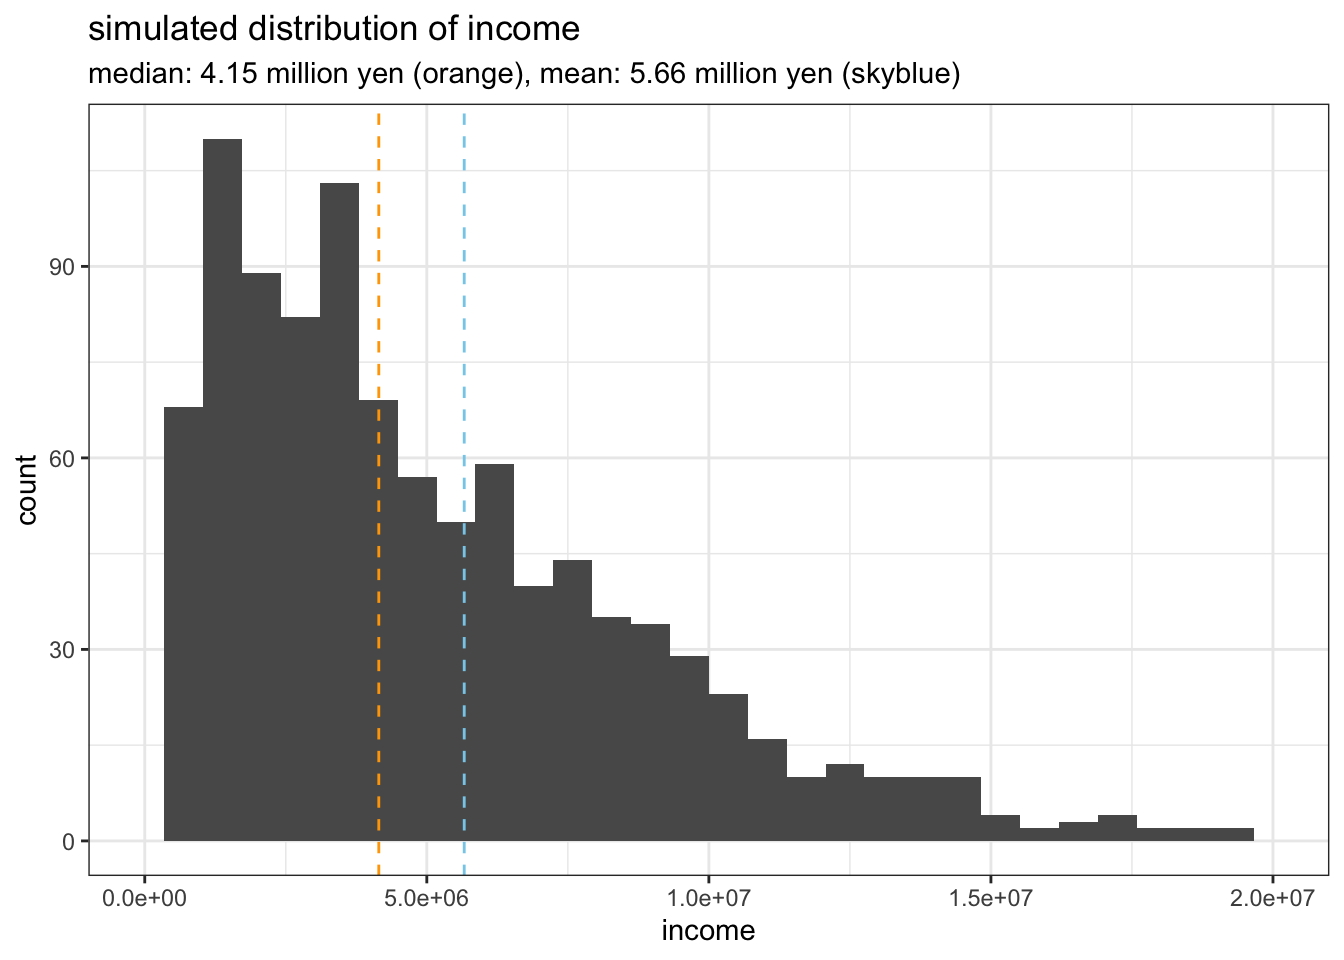
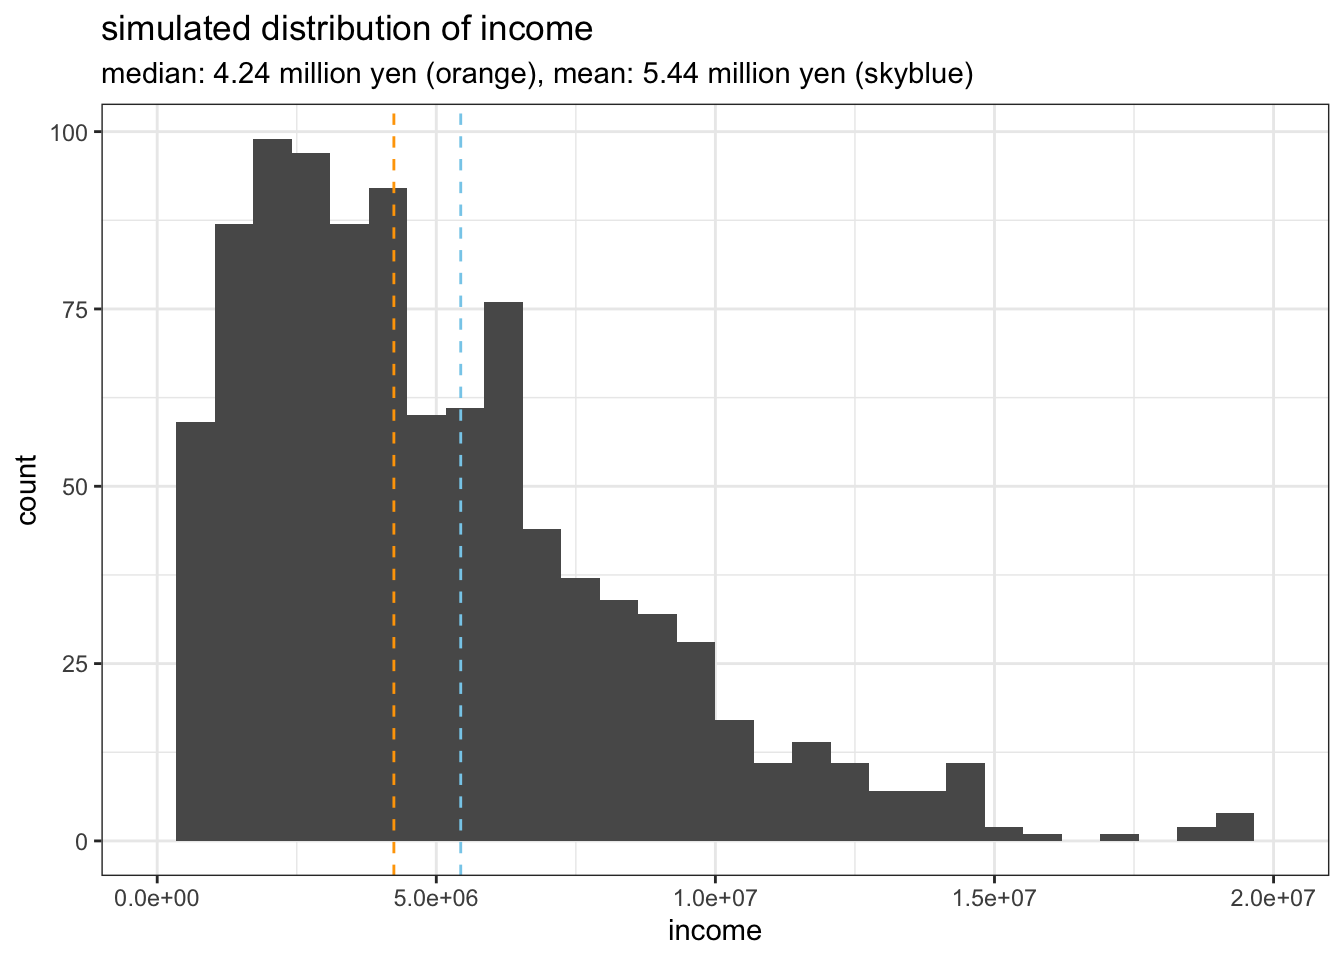
テキストの修正

diff --git a/docs/post/2022-08-07-generateincomedata/index.html b/docs/post/2022-08-07-generateincomedata/index.html
@@ -230,6 +230,11 @@ source: <a href="https://www.e-stat.go.jp/dbview?sid=0003442017">e-stat</a></p>
 <li>incomeは交絡: incomeが少ないほどx and yが発生しやすい (i.e., confounding bias away from the null)</li>
 <li>引数: n_sample=人数、risk_ratio=曝露によるリスク比</li>
 </ul>
+</div>
+<div id="関数" class="section level1">
+<h1>関数</h1>
+<div id="関数の作成" class="section level2">
+<h2>関数の作成</h2>
 <pre class="r"><code>pacman::p_load(tidyverse)
 # incomeデータを国民生活基礎調査に基づいて作成
 MakeIncomeData &lt;- function(){
@@ -251,7 +256,7 @@ MakeIncomeData &lt;- function(){
 # incomeが少ないほどx and yが発生しやすい-&gt; confounding bias away from the null
 # 引数: n_sample=人数、risk_ratio=曝露によるリスク比
 MakeData &lt;- function(n_sample=1000, risk_ratio=1.5){
-  set.seed(1)
+  set.seed(1234)
   # income data &amp; income_threshold
   income_cat &lt;- MakeIncomeData()
   income_threshold &lt;- c(0, 0.012, 0.064, 0.127, 0.19, 0.259, 0.326, 0.397, 0.454, 
@@ -308,16 +313,19 @@ MakeData &lt;- function(n_sample=1000, risk_ratio=1.5){
   
   return(df)
 }</code></pre>
+</div>
+<div id="関数の確認" class="section level2">
+<h2>関数の確認</h2>
 <p>使い方はこんな感じ</p>
 <pre class="r"><code>df &lt;- MakeData(n_sample = 1000, risk_ratio = 2.0)
 head(df)</code></pre>
-<pre><code>##   ID sex     income income_cat x y
-## 1  1   0  4935901.6       &lt;700 0 0
-## 2  2   0  6483597.6       &lt;700 0 0
-## 3  3   1  3433457.3       &lt;400 0 0
-## 4  4   1 13313145.5       ≥700 0 0
-## 5  5   0  1095968.7       &lt;250 1 1
-## 6  6   1   541147.1       &lt;250 1 0</code></pre>
+<pre><code>##   ID sex  income income_cat x y
+## 1  1   0 9057019       ≥700 1 0
+## 2  2   1 4096104       &lt;700 0 0
+## 3  3   1 1309235       &lt;250 0 0
+## 4  4   1 3299529       &lt;400 0 0
+## 5  5   1 7530942       ≥700 0 0
+## 6  6   1 3349626       &lt;400 0 1</code></pre>
 <p>所得の分布はこの通り。200-300万円程度でピークが来ていて、右に長い裾を引くという日本世帯収入の特徴をつかめていると思います。</p>
 <pre class="r"><code>mean_income &lt;- mean(df$income)
 median_income &lt;- median(df$income)
@@ -341,8 +349,86 @@ ggplot(data = df, aes(x = income)) +
 <p class="caption">所得の分布状況 (令和元年度国民生活基礎調査)</p>
 </div>
 <p>国民生活基礎調査をもとにデータをシミュレーションしているから当然なんだけど、いいデモデータになるでしょ？</p>
+<p>一応、xとyとの関連も確認。
+単純にxとyをlog-binomialで回帰分析したモデルと、収入を4カテゴリ (250万円未満 / 250-400万円 / 400-700万円 / 700万円以上) に分けて調整したモデルの2つを実行します。</p>
+<pre class="r"><code>crude &lt;- glm(y ~ x, data = df, family = binomial(link = &quot;log&quot;))
+
+summary(crude)</code></pre>
+<pre><code>## 
+## Call:
+## glm(formula = y ~ x, family = binomial(link = &quot;log&quot;), data = df)
+## 
+## Deviance Residuals: 
+##     Min       1Q   Median       3Q      Max  
+## -1.0579  -0.6398  -0.6398  -0.6398   1.8368  
+## 
+## Coefficients:
+##             Estimate Std. Error z value Pr(&gt;|z|)    
+## (Intercept) -1.68688    0.07274  -23.19  &lt; 2e-16 ***
+## x            0.83958    0.11501    7.30 2.88e-13 ***
+## ---
+## Signif. codes:  0 &#39;***&#39; 0.001 &#39;**&#39; 0.01 &#39;*&#39; 0.05 &#39;.&#39; 0.1 &#39; &#39; 1
+## 
+## (Dispersion parameter for binomial family taken to be 1)
+## 
+##     Null deviance: 1068.8  on 999  degrees of freedom
+## Residual deviance: 1026.6  on 998  degrees of freedom
+## AIC: 1030.6
+## 
+## Number of Fisher Scoring iterations: 6</code></pre>
+<pre class="r"><code>exp(coef(crude)) # risk ratio</code></pre>
+<pre><code>## (Intercept)           x 
+##   0.1850962   2.3153989</code></pre>
+<pre class="r"><code>adjusted &lt;- glm(y ~ x + income_cat, data = df, family = binomial(link = &quot;log&quot;))
+
+summary(adjusted)</code></pre>
+<pre><code>## 
+## Call:
+## glm(formula = y ~ x + income_cat, family = binomial(link = &quot;log&quot;), 
+##     data = df)
+## 
+## Deviance Residuals: 
+##     Min       1Q   Median       3Q      Max  
+## -1.2228  -0.7399  -0.6391  -0.5278   2.0200  
+## 
+## Coefficients:
+##                Estimate Std. Error z value Pr(&gt;|z|)    
+## (Intercept)     -1.4293     0.1049 -13.628  &lt; 2e-16 ***
+## x                0.7879     0.1149   6.856 7.08e-12 ***
+## income_cat&lt;400  -0.2383     0.1557  -1.531   0.1259    
+## income_cat&lt;700  -0.2596     0.1400  -1.855   0.0636 .  
+## income_cat≥700  -0.6109     0.1755  -3.481   0.0005 ***
+## ---
+## Signif. codes:  0 &#39;***&#39; 0.001 &#39;**&#39; 0.01 &#39;*&#39; 0.05 &#39;.&#39; 0.1 &#39; &#39; 1
+## 
+## (Dispersion parameter for binomial family taken to be 1)
+## 
+##     Null deviance: 1068.8  on 999  degrees of freedom
+## Residual deviance: 1012.8  on 995  degrees of freedom
+## AIC: 1022.8
+## 
+## Number of Fisher Scoring iterations: 6</code></pre>
+<pre class="r"><code>exp(coef(adjusted)) # risk ratio</code></pre>
+<pre><code>##    (Intercept)              x income_cat&lt;400 income_cat&lt;700 income_cat≥700 
+##      0.2394715      2.1987082      0.7879789      0.7713427      0.5428814</code></pre>
+<pre class="r"><code>exp(confint(adjusted)) # 95%CI</code></pre>
+<pre><code>##                    2.5 %    97.5 %
+## (Intercept)    0.1934482 0.2914440
+## x              1.7452555 2.7416437
+## income_cat&lt;400 0.5720032 1.0622755
+## income_cat&lt;700 0.5838765 1.0102595
+## income_cat≥700 0.3800548 0.7554868</code></pre>
+<p>risk ratioは2.0で設定したところ、データではRR=2.20 になっていました。
+おそらく想定した通りにちゃんと動いているでしょう。</p>
+<p>また、交絡に関して確認すると、
+crudeだと RR=2.32 で、収入を調整したadjustedだと RR=2.20 となっていました。
+したがって、収入がbias away from the nullになっていることも確認できました。</p>
 <p><br></p>
-<p>実際に動かすときは、この関数を.Rで作成し、解析コードの.R/.Rmdから読み出すといいでしょう。</p>
+</div>
+</div>
+<div id="実際に使う場合のtips" class="section level1">
+<h1>実際に使う場合のtips</h1>
+<p>実際にこの関数を動かすときは、関数を.Rで作成して保存し、解析コードの.R/.Rmdから読み出すといいでしょう。</p>
 <p>例として、以下のディレクトリ構造でコードを書いていたとします。</p>
 <p>index.Rmd (← 今書いてるドキュメント) <br>
 └ index_files/makedata.R <br></p>

diff --git a/content/post/2022-08-07-generateincomedata/index.html b/content/post/2022-08-07-generateincomedata/index.html
@@ -28,6 +28,11 @@ source: <a href="https://www.e-stat.go.jp/dbview?sid=0003442017">e-stat</a></p>
 <li>incomeは交絡: incomeが少ないほどx and yが発生しやすい (i.e., confounding bias away from the null)</li>
 <li>引数: n_sample=人数、risk_ratio=曝露によるリスク比</li>
 </ul>
+</div>
+<div id="関数" class="section level1">
+<h1>関数</h1>
+<div id="関数の作成" class="section level2">
+<h2>関数の作成</h2>
 <pre class="r"><code>pacman::p_load(tidyverse)
 # incomeデータを国民生活基礎調査に基づいて作成
 MakeIncomeData &lt;- function(){
@@ -49,7 +54,7 @@ MakeIncomeData &lt;- function(){
 # incomeが少ないほどx and yが発生しやすい-&gt; confounding bias away from the null
 # 引数: n_sample=人数、risk_ratio=曝露によるリスク比
 MakeData &lt;- function(n_sample=1000, risk_ratio=1.5){
-  set.seed(1)
+  set.seed(1234)
   # income data &amp; income_threshold
   income_cat &lt;- MakeIncomeData()
   income_threshold &lt;- c(0, 0.012, 0.064, 0.127, 0.19, 0.259, 0.326, 0.397, 0.454, 
@@ -106,16 +111,19 @@ MakeData &lt;- function(n_sample=1000, risk_ratio=1.5){
   
   return(df)
 }</code></pre>
+</div>
+<div id="関数の確認" class="section level2">
+<h2>関数の確認</h2>
 <p>使い方はこんな感じ</p>
 <pre class="r"><code>df &lt;- MakeData(n_sample = 1000, risk_ratio = 2.0)
 head(df)</code></pre>
-<pre><code>##   ID sex     income income_cat x y
-## 1  1   0  4935901.6       &lt;700 0 0
-## 2  2   0  6483597.6       &lt;700 0 0
-## 3  3   1  3433457.3       &lt;400 0 0
-## 4  4   1 13313145.5       ≥700 0 0
-## 5  5   0  1095968.7       &lt;250 1 1
-## 6  6   1   541147.1       &lt;250 1 0</code></pre>
+<pre><code>##   ID sex  income income_cat x y
+## 1  1   0 9057019       ≥700 1 0
+## 2  2   1 4096104       &lt;700 0 0
+## 3  3   1 1309235       &lt;250 0 0
+## 4  4   1 3299529       &lt;400 0 0
+## 5  5   1 7530942       ≥700 0 0
+## 6  6   1 3349626       &lt;400 0 1</code></pre>
 <p>所得の分布はこの通り。200-300万円程度でピークが来ていて、右に長い裾を引くという日本世帯収入の特徴をつかめていると思います。</p>
 <pre class="r"><code>mean_income &lt;- mean(df$income)
 median_income &lt;- median(df$income)
@@ -139,8 +147,86 @@ ggplot(data = df, aes(x = income)) +
 <p class="caption">所得の分布状況 (令和元年度国民生活基礎調査)</p>
 </div>
 <p>国民生活基礎調査をもとにデータをシミュレーションしているから当然なんだけど、いいデモデータになるでしょ？</p>
+<p>一応、xとyとの関連も確認。
+単純にxとyをlog-binomialで回帰分析したモデルと、収入を4カテゴリ (250万円未満 / 250-400万円 / 400-700万円 / 700万円以上) に分けて調整したモデルの2つを実行します。</p>
+<pre class="r"><code>crude &lt;- glm(y ~ x, data = df, family = binomial(link = &quot;log&quot;))
+
+summary(crude)</code></pre>
+<pre><code>## 
+## Call:
+## glm(formula = y ~ x, family = binomial(link = &quot;log&quot;), data = df)
+## 
+## Deviance Residuals: 
+##     Min       1Q   Median       3Q      Max  
+## -1.0579  -0.6398  -0.6398  -0.6398   1.8368  
+## 
+## Coefficients:
+##             Estimate Std. Error z value Pr(&gt;|z|)    
+## (Intercept) -1.68688    0.07274  -23.19  &lt; 2e-16 ***
+## x            0.83958    0.11501    7.30 2.88e-13 ***
+## ---
+## Signif. codes:  0 &#39;***&#39; 0.001 &#39;**&#39; 0.01 &#39;*&#39; 0.05 &#39;.&#39; 0.1 &#39; &#39; 1
+## 
+## (Dispersion parameter for binomial family taken to be 1)
+## 
+##     Null deviance: 1068.8  on 999  degrees of freedom
+## Residual deviance: 1026.6  on 998  degrees of freedom
+## AIC: 1030.6
+## 
+## Number of Fisher Scoring iterations: 6</code></pre>
+<pre class="r"><code>exp(coef(crude)) # risk ratio</code></pre>
+<pre><code>## (Intercept)           x 
+##   0.1850962   2.3153989</code></pre>
+<pre class="r"><code>adjusted &lt;- glm(y ~ x + income_cat, data = df, family = binomial(link = &quot;log&quot;))
+
+summary(adjusted)</code></pre>
+<pre><code>## 
+## Call:
+## glm(formula = y ~ x + income_cat, family = binomial(link = &quot;log&quot;), 
+##     data = df)
+## 
+## Deviance Residuals: 
+##     Min       1Q   Median       3Q      Max  
+## -1.2228  -0.7399  -0.6391  -0.5278   2.0200  
+## 
+## Coefficients:
+##                Estimate Std. Error z value Pr(&gt;|z|)    
+## (Intercept)     -1.4293     0.1049 -13.628  &lt; 2e-16 ***
+## x                0.7879     0.1149   6.856 7.08e-12 ***
+## income_cat&lt;400  -0.2383     0.1557  -1.531   0.1259    
+## income_cat&lt;700  -0.2596     0.1400  -1.855   0.0636 .  
+## income_cat≥700  -0.6109     0.1755  -3.481   0.0005 ***
+## ---
+## Signif. codes:  0 &#39;***&#39; 0.001 &#39;**&#39; 0.01 &#39;*&#39; 0.05 &#39;.&#39; 0.1 &#39; &#39; 1
+## 
+## (Dispersion parameter for binomial family taken to be 1)
+## 
+##     Null deviance: 1068.8  on 999  degrees of freedom
+## Residual deviance: 1012.8  on 995  degrees of freedom
+## AIC: 1022.8
+## 
+## Number of Fisher Scoring iterations: 6</code></pre>
+<pre class="r"><code>exp(coef(adjusted)) # risk ratio</code></pre>
+<pre><code>##    (Intercept)              x income_cat&lt;400 income_cat&lt;700 income_cat≥700 
+##      0.2394715      2.1987082      0.7879789      0.7713427      0.5428814</code></pre>
+<pre class="r"><code>exp(confint(adjusted)) # 95%CI</code></pre>
+<pre><code>##                    2.5 %    97.5 %
+## (Intercept)    0.1934482 0.2914440
+## x              1.7452555 2.7416437
+## income_cat&lt;400 0.5720032 1.0622755
+## income_cat&lt;700 0.5838765 1.0102595
+## income_cat≥700 0.3800548 0.7554868</code></pre>
+<p>risk ratioは2.0で設定したところ、データではRR=2.20 になっていました。
+おそらく想定した通りにちゃんと動いているでしょう。</p>
+<p>また、交絡に関して確認すると、
+crudeだと RR=2.32 で、収入を調整したadjustedだと RR=2.20 となっていました。
+したがって、収入がbias away from the nullになっていることも確認できました。</p>
 <p><br></p>
-<p>実際に動かすときは、この関数を.Rで作成し、解析コードの.R/.Rmdから読み出すといいでしょう。</p>
+</div>
+</div>
+<div id="実際に使う場合のtips" class="section level1">
+<h1>実際に使う場合のtips</h1>
+<p>実際にこの関数を動かすときは、関数を.Rで作成して保存し、解析コードの.R/.Rmdから読み出すといいでしょう。</p>
 <p>例として、以下のディレクトリ構造でコードを書いていたとします。</p>
 <p>index.Rmd (← 今書いてるドキュメント) <br>
 └ index_files/makedata.R <br></p>
